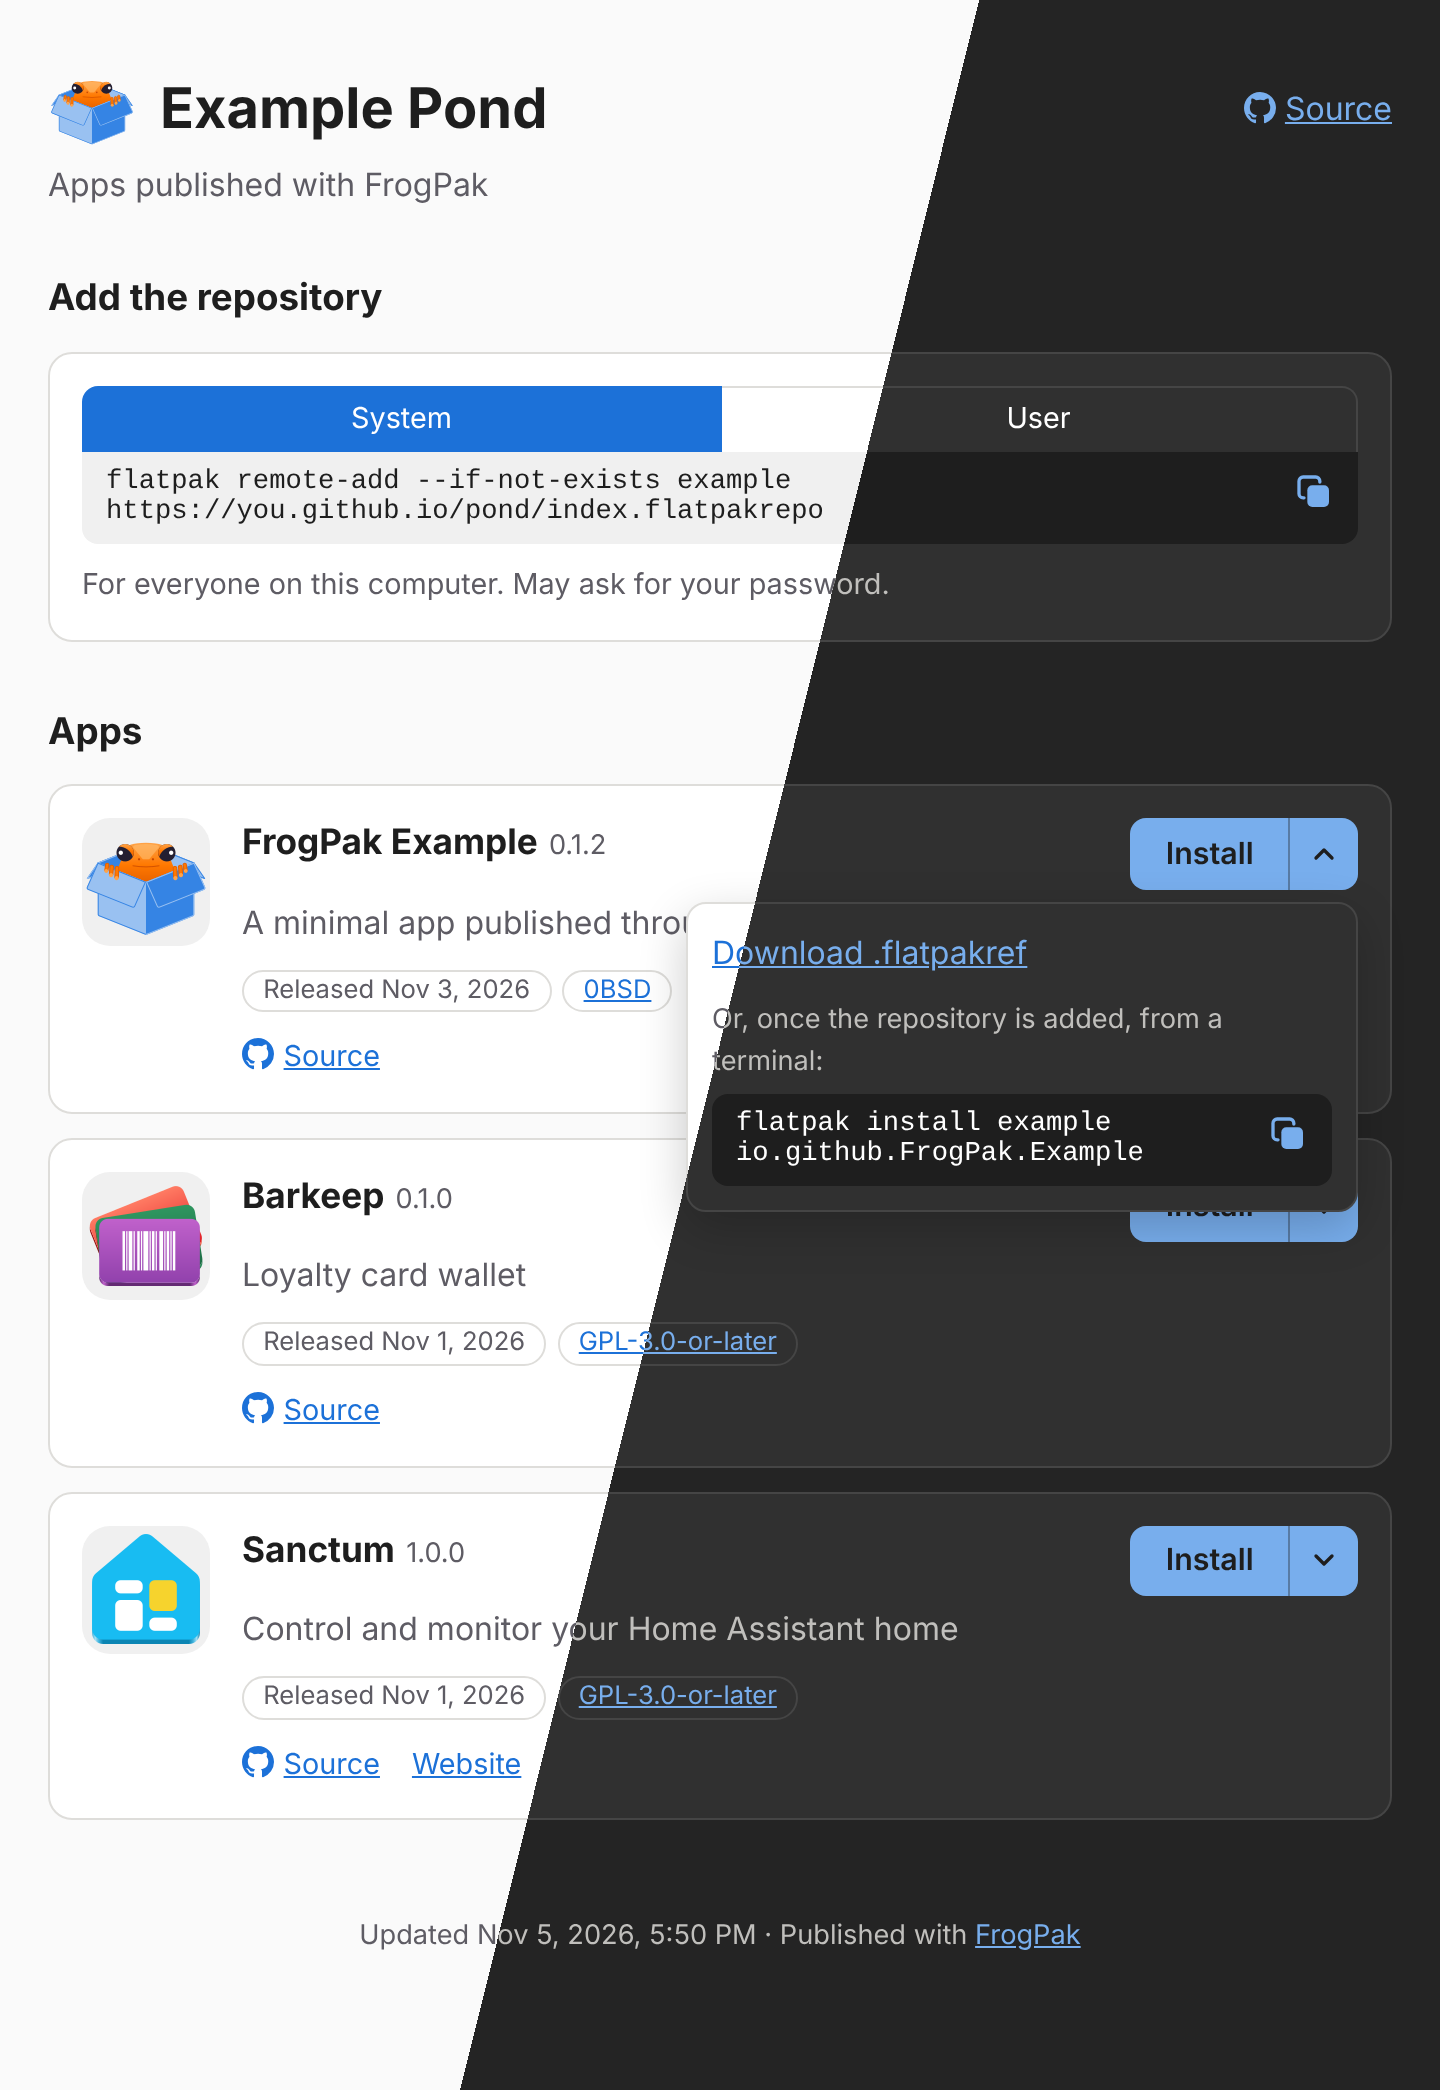
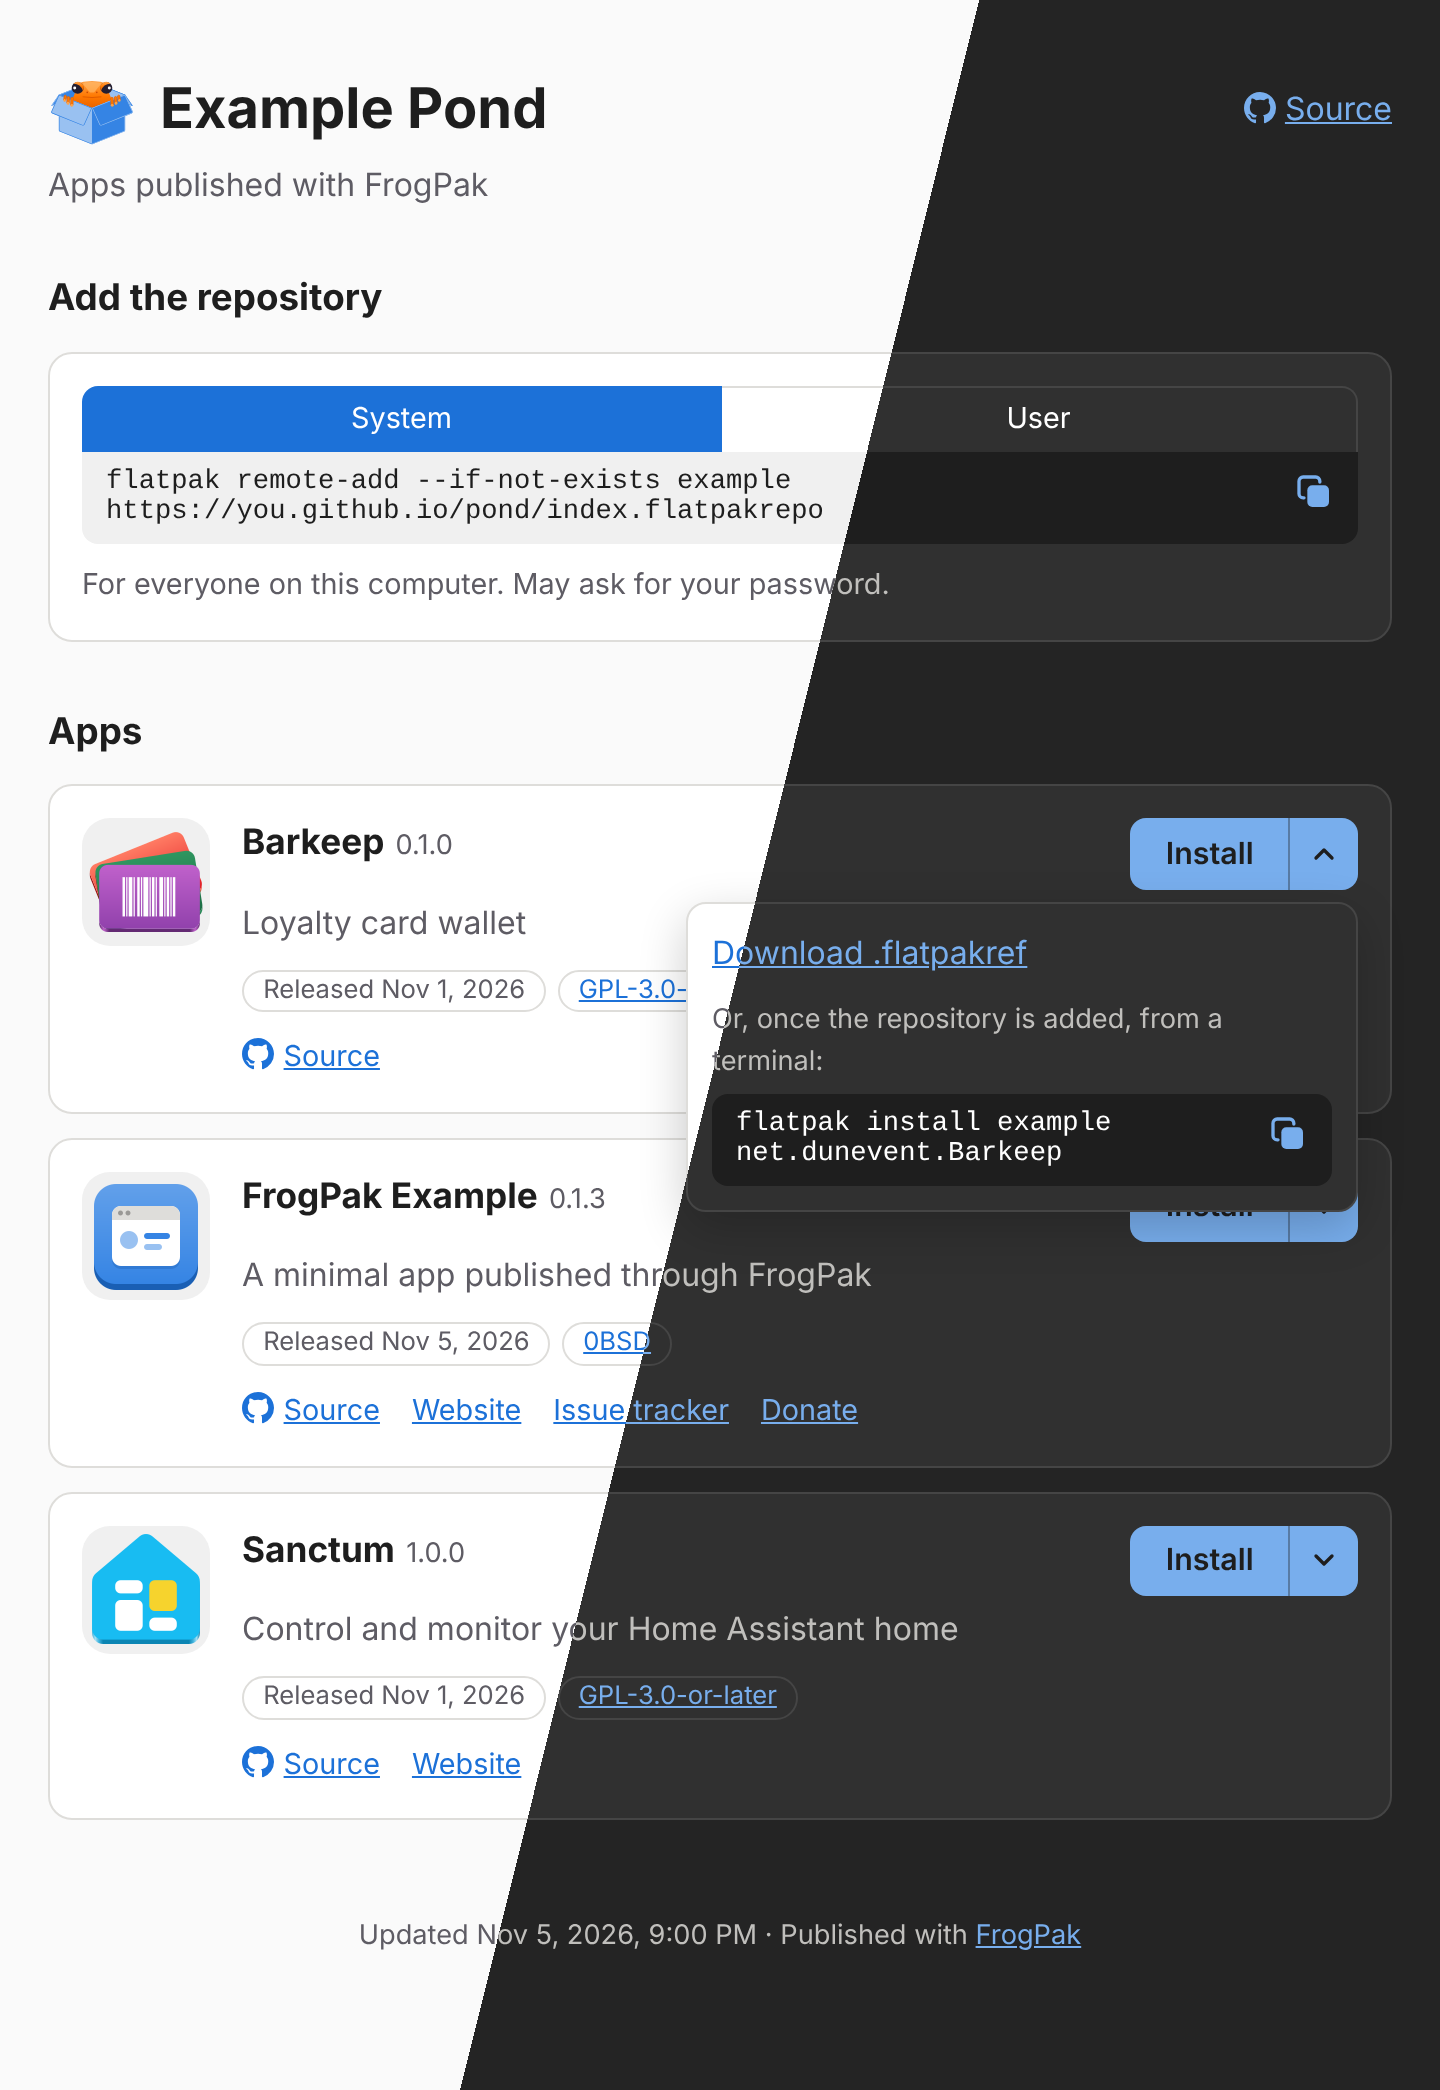
Add order setting for the app list

diff --git a/tests/test_order.py b/tests/test_order.py
@@ -1,0 +1,63 @@
+import json
+import tempfile
+import unittest
+from pathlib import Path
+
+from frogpak import config, site
+
+BASE = "pond:\n  title: T\n  remote: t\n"
+
+
+def entry(app_id, name, released=None):
+    return {"id": app_id, "name": name, "summary": "", "version": "1", "released": released, "license": None,
+            "license_source": None, "url": "https://example.org", "icon": None, "links": {}, "arches": ["aarch64"]}
+
+
+ENTRIES = [
+    entry("net.dunevent.Sanctum", "Sanctum", "2026-11-02T01:35:31Z"),
+    entry("io.github.nico359.loci", "loci", None),
+    entry("net.dunevent.Barkeep", "Barkeep", "2026-11-02T03:50:14Z"),
+    entry("io.github.FrogPak.Example", "FrogPak Example", "2026-11-05"),
+    entry("io.github.nico359.camera", "Camera", None),
+]
+
+
+def names(order):
+    return [e["name"] for e in site.ordered(ENTRIES, order)]
+
+
+class OrderTests(unittest.TestCase):
+    def test_listed_keeps_the_config_order(self):
+        self.assertEqual(names("listed"), ["Sanctum", "loci", "Barkeep", "FrogPak Example", "Camera"])
+
+    def test_name_ignores_case(self):
+        self.assertEqual(names("name"), ["Barkeep", "Camera", "FrogPak Example", "loci", "Sanctum"])
+
+    def test_newest_first_then_undated_by_name(self):
+        # A date-only release counts as that day's start, so it still sorts after a later timestamp.
+        self.assertEqual(names("newest"), ["FrogPak Example", "Barkeep", "Sanctum", "Camera", "loci"])
+
+    def test_app_id_groups_authors(self):
+        self.assertEqual(names("app-id"), ["FrogPak Example", "Camera", "loci", "Barkeep", "Sanctum"])
+
+    def test_config(self):
+        self.assertEqual(config.parse(BASE + "apps:\n").pond.order, "listed")
+        for order in config.ORDERS:
+            self.assertEqual(config.parse(BASE + f"  order: {order}\napps:\n").pond.order, order)
+        with self.assertRaises(config.ConfigError) as ctx:
+            config.parse(BASE + "  order: oldest\napps:\n")
+        self.assertIn("pond.order must be one of listed, name, newest, app-id", ctx.exception.problems[0])
+
+    def test_page_and_apps_json_follow_the_order(self):
+        pond = config.parse(BASE + "  order: name\napps:\n").pond
+        with tempfile.TemporaryDirectory() as out:
+            site.write(Path(out), pond, "https://x/", "", ENTRIES, "logo.svg", None, False, {})
+            page = (Path(out) / "index.html").read_text()
+            listed = json.loads((Path(out) / "apps.json").read_text())["apps"]
+        positions = [page.index(f"<h3>{n}") for n in ("Barkeep", "Camera", "FrogPak Example", "loci", "Sanctum")]
+        self.assertEqual(positions, sorted(positions))
+        self.assertEqual([a["name"] for a in listed], ["Barkeep", "Camera", "FrogPak Example", "loci", "Sanctum"])
+
+
+if __name__ == "__main__":
+    unittest.main()

diff --git a/frogpak/config.py b/frogpak/config.py
@@ -18,7 +18,9 @@ FORGES = ("github", "forgejo", "gitea", "gitlab")
 PLACEHOLDERS = {"app_id", "name", "arch"}
 
 POND_KEYS = {"title", "subtitle", "remote", "arches", "logo", "logo-dark", "favicon", "theme", "css",
-             "social-image"}
+             "social-image", "order"}
+# How the landing page lists apps; the first is the default.
+ORDERS = ("listed", "name", "newest", "app-id")
 THEME_KEYS = ("accent", "accent-dark", "background", "background-dark")
 APP_KEYS = {"repo", "assets", "forge", "license"}
 LICENSE_KEYWORDS = ("auto", "forge", "repo", "meta", "metainfo")
@@ -68,6 +70,8 @@ class Pond:
     css: str | None = None
     # The image for shared links; None uses the repository's social preview image.
     social_image: str | None = None
+    # One of ORDERS: how the landing page lists apps.
+    order: str = ORDERS[0]
 
 
 @dataclass(frozen=True)
@@ -174,6 +178,10 @@ def parse(text, path=CONFIG_NAME):
     if remote and not REMOTE_RE.match(remote):
         problems.append(f"pond.remote {remote!r} may contain only lowercase letters, digits and hyphens")
     subtitle = _string(pond_data.get("subtitle"), "pond.subtitle", problems) or ""
+    order = _string(pond_data.get("order"), "pond.order", problems) or ORDERS[0]
+    if order not in ORDERS:
+        problems.append(f"pond.order must be one of {', '.join(ORDERS)}; got {order!r}")
+        order = ORDERS[0]
 
     arches = pond_data.get("arches", list(DEFAULT_ARCHES))
     if not isinstance(arches, list) or not arches:
@@ -253,7 +261,7 @@ def parse(text, path=CONFIG_NAME):
         raise ConfigError(path, problems)
     pond = Pond(title=title, remote=remote, subtitle=subtitle, arches=tuple(clean_arches),
               logo=images["logo"], logo_dark=images["logo-dark"], favicon=images["favicon"],
-              theme=theme, css=images["css"], social_image=images["social-image"])
+              theme=theme, css=images["css"], social_image=images["social-image"], order=order)
     return Config(pond=pond, apps=tuple(apps), path=Path(path))
 
 

diff --git a/frogpak/site.py b/frogpak/site.py
@@ -346,6 +346,27 @@ def logo_markup(logo_name, dark_name):
             f"{img}</picture>")
 
 
+def _released_key(entry):
+    # A date without a time, from metainfo, counts as the start of that day in UTC.
+    value = entry.get("released") or ""
+    return value + "T00:00:00Z" if len(value) == 10 else value
+
+
+def ordered(entries, order):
+    """entries in the order pond.order names: listed, name, newest or app-id."""
+    by_name = lambda e: ((e.get("name") or e["id"]).casefold(), e["id"].casefold())
+    if order == "name":
+        return sorted(entries, key=by_name)
+    if order == "app-id":
+        return sorted(entries, key=lambda e: e["id"].casefold())
+    if order == "newest":
+        # Newest first; apps with no known date after them, alphabetically.
+        dated = sorted((e for e in entries if e.get("released")), key=by_name)
+        dated = sorted(dated, key=_released_key, reverse=True)
+        return dated + sorted((e for e in entries if not e.get("released")), key=by_name)
+    return list(entries)
+
+
 def write(site, pond, base_url, source_url, entries, logo_name, dark_name, has_svg_favicon, state,
           custom_css=False, updated=None, social_name=None):
     """entries: dicts with id, name, summary, version, released, license, url, icon.
@@ -353,6 +374,8 @@ def write(site, pond, base_url, source_url, entries, logo_name, dark_name, has_s
     updated is the publish time, shown on the page; it is not part of state.
     social_name is the shared-link image in the site, or None to offer the icon.
     """
+    # The page and apps.json both follow pond.order.
+    entries = ordered(entries, pond.order)
     cards = []
     for entry in entries:
         icon = (f'<img src="{_e(entry["icon"])}" alt="">' if entry["icon"]

diff --git a/frogpak/__init__.py b/frogpak/__init__.py
@@ -1,1 +1,1 @@
-__version__ = "1.1.4"
+__version__ = "1.1.5"

diff --git a/docs/configuration.md b/docs/configuration.md
@@ -40,6 +40,7 @@ apps:
 | `theme` | no | Colors; see [Theme](#theme) |
 | `css` | no | Your own stylesheet, a repository path or `https://` URL, loaded after FrogPak's styles |
 | `social-image` | no | Image shown when the page's link is shared; default: the repository's social preview image. See [Shared links](#shared-links) |
+| `order` | no | How the landing page lists apps: `listed` (default), `name`, `newest` or `app-id`. See [App order](#app-order) |
 
 YAML guesses types for unquoted text: `no` becomes false and `1.10` becomes the number 1.1. FrogPak reports these instead of guessing along; put such values in quotes.
 
@@ -142,6 +143,17 @@ All four are optional hex colors, 3 or 6 digits. Write them without `#`, or with
 - Wide logos are fine on the page; they are scaled, never stretched. The favicon is made from the logo unless `favicon` is set, so a wide logo produces a warning suggesting a square `favicon`.
 - URLs are fetched at every publish. If one cannot be fetched, the publish continues with the default and a warning. SVGs from URLs are published as PNG images.
 - Changing a logo, favicon or `css` file in the repository republishes the page at the next check, even when `pond.yml` itself is unchanged. A file behind a URL is not watched: a change there shows at the next publish, or use **Run workflow** with *Rebuild even if nothing changed*.
+
+## App order
+
+| `order` | Apps listed |
+| --- | --- |
+| `listed` (default) | As they appear under `apps:` |
+| `name` | Alphabetically by name, ignoring case |
+| `newest` | Most recent release first; apps with no known release date last, alphabetically |
+| `app-id` | Alphabetically by app ID, which keeps each developer's apps together (`net.example.*`, `io.github.someone.*`) |
+
+`apps.json` lists apps in the same order. With `newest`, a new release moves its app to the top at the next publish.
 
 ## Shared links
 

diff --git a/CHANGELOG.md b/CHANGELOG.md
@@ -1,5 +1,9 @@
 # Changelog
 
+## 1.1.5
+
+- A new `order` setting chooses how the landing page lists apps: `listed`, the default and the order before; `name`; `newest`, by release date; or `app-id`, which keeps each developer's apps together. `apps.json` follows the same order.
+
 ## 1.1.4
 
 - Changing a logo, dark logo, favicon or stylesheet file republishes the page at the next check. Before, only changes to `pond.yml` and to apps' releases did, so a new logo waited for one of those or a forced rebuild. Files behind URLs are not watched.
